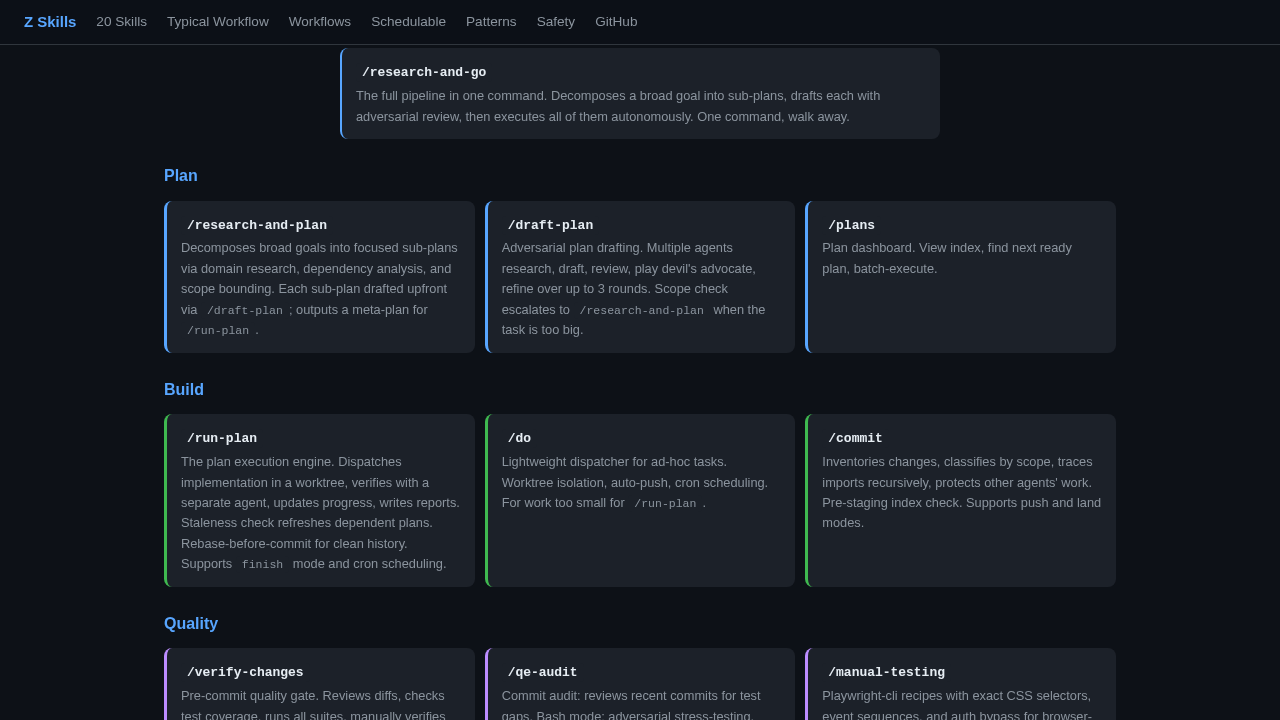
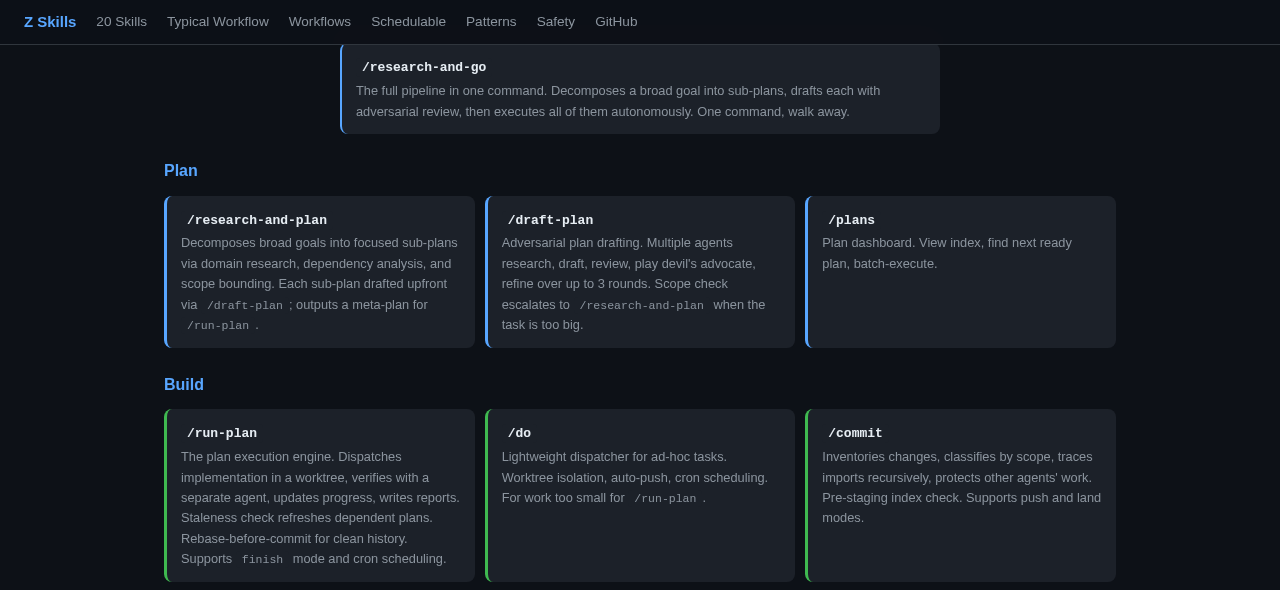
refactor: separate domain extensions from core 15, crop screenshots
- Presentation: 15 core skills (domain extensions removed to one-line note)
- README: 3 clean cropped screenshots (Plan+Build, Quality+Fix, Utility)
- Domain screenshot moved to block-diagram/README.md
- Fixed "out of the box" claim — domain skills need adaptation
- Core Z Skills = 15. Domain extensions = 5 additional, not part of core.

diff --git a/PRESENTATION.html b/PRESENTATION.html
@@ -263,7 +263,7 @@
 
 <nav>
   <span class="logo">Z Skills</span>
-  <a href="#skills">20 Skills</a>
+  <a href="#skills">15 Skills</a>
   <a href="#quickstart">Typical Workflow</a>
   <a href="#workflows">Workflows</a>
   <a href="#schedulable">Schedulable</a>
@@ -277,7 +277,7 @@
 <!-- HERO -->
 <section class="hero" style="margin-bottom: 6px; padding-bottom: 20px;">
   <h1>Z Skills System</h1>
-  <p>Z Skills turns Claude Code into a disciplined engineering team. 20 structured workflows that plan, build, test, fix, and ship &mdash; with verification at every step. Each skill encodes a workflow that used to need hands-on guidance, so it runs with a single command.</p>
+  <p>Z Skills turns Claude Code into a disciplined engineering team. 15 core skills that plan, build, test, fix, and ship &mdash; with verification at every step. Each skill encodes a workflow that used to need hands-on guidance, so it runs with a single command.</p>
   <p>Currently: 15 core skills and 5 domain extensions covering plan drafting, feature implementation, bug fixing, verification, testing, documentation, and safe code landing. Six support cron scheduling for unattended execution.</p>
 </section>
 
@@ -374,29 +374,7 @@
         </div>
       </div>
 
-      <h4 style="color: var(--accent); margin: 24px 0 12px;">Domain Extensions</h4>
-      <div class="skill-mini-grid">
-        <div class="skill-mini" style="border-color: var(--pink);">
-          <h5><code>/add-block</code></h5>
-          <p>Full 13-step lifecycle for new component types: plan, implement, register, UI, docs, tests, example, codegen, deploy, manual testing, verification, landing.</p>
-        </div>
-        <div class="skill-mini" style="border-color: var(--pink);">
-          <h5><code>/add-example</code></h5>
-          <p>Example project creation: research the concept, design layout, build project file, register, test, screenshot, verify end-to-end.</p>
-        </div>
-        <div class="skill-mini" style="border-color: var(--pink);">
-          <h5><code>/model-design</code></h5>
-          <p>Layout guidelines for diagrams and charts, based on industry standards and best practices.</p>
-        </div>
-        <div class="skill-mini" style="border-color: var(--pink);">
-          <h5><code>/manual-testing</code></h5>
-          <p>Playwright-cli recipes with exact selectors and event sequences for UI testing.</p>
-        </div>
-        <div class="skill-mini" style="border-color: var(--pink);">
-          <h5><code>/review-feedback</code></h5>
-          <p>Triage user feedback, deduplicate against existing issues, file via GitHub CLI.</p>
-        </div>
-      </div>
+      <p style="color: var(--text-dim); margin: 24px 0 12px; font-style: italic;">+ 5 domain extension skills for block-diagram editors in <code>block-diagram/</code></p>
 
 </section>
 
@@ -685,7 +663,7 @@
 
 <!-- CLOSING -->
 <section class="fade-in" style="text-align:center; padding: 40px 0; border-top: 2px solid var(--border);">
-  <p style="font-size: 1.05em; color: var(--text); max-width: 800px; margin: 0 auto;"><strong>20 skills that plan, build, test, fix, and ship &mdash; so one developer can run a full engineering team.</strong></p>
+  <p style="font-size: 1.05em; color: var(--text); max-width: 800px; margin: 0 auto;"><strong>15 skills that plan, build, test, fix, and ship &mdash; so one developer can run a full engineering team.</strong></p>
   <p style="margin-top: 16px;"><a href="https://github.com/zeveck/zskills">github.com/zeveck/zskills</a></p>
   <p style="margin-top: 24px; font-size: 0.85em; color: var(--text-dim);">Built with Claude Code (Claude Opus 4.6) &mdash; Z Skills System.</p>
 </section>

diff --git a/README.md b/README.md
@@ -18,7 +18,7 @@ workflow stages, enforcement model, and war stories.
 
 ![Quality and Fix skills](screenshots/skills-quality-fix.png)
 
-![Utility, Reference, and Domain Extension skills](screenshots/skills-utility-domain.png)
+![Utility and Reference skills](screenshots/skills-utility.png)
 
 ## Quick Install
 
@@ -88,19 +88,11 @@ data pipeline.
 | `/doc` | Documentation audit, gap-filling, and changelog/newsletter entries |
 | `/setup-zskills` | Install, audit, or update Z Skills infrastructure in any project |
 
-### 5 Domain Skills (`block-diagram/`)
+### Domain Extensions (`block-diagram/`)
 
-These are for block-diagram editors and visual modeling projects. Use them
-directly or as templates for your own domain-specific skills.
-See [`block-diagram/README.md`](block-diagram/README.md).
-
-| Skill | Purpose |
-|-------|---------|
-| `/add-block` | Full lifecycle for new block types: plan, implement, register, test, example, codegen |
-| `/add-example` | Example model creation: research, design, build, register, test, screenshot |
-| `/manual-testing` | Playwright recipes with exact selectors for block-diagram UI testing |
-| `/model-design` | Layout guidelines for block diagrams and state charts (MAAB/NASA standards) |
-| `/review-feedback` | Triage in-app user feedback, deduplicate, file GitHub issues |
+5 additional skills for block-diagram editors and visual modeling projects.
+These are **not** part of the core 15 — they're domain-specific extensions
+that demonstrate how to build your own. See [`block-diagram/README.md`](block-diagram/README.md).
 
 ## What Gets Installed
 

diff --git a/block-diagram/README.md b/block-diagram/README.md
@@ -4,6 +4,8 @@ These 5 skills are for block-diagram editors and visual modeling
 projects. They demonstrate how to extend Z Skills with domain-specific
 workflows.
 
+![Block diagram domain skills](screenshots/domain-skills.png)
+
 ## Skills
 
 | Skill | Lines | Purpose |
@@ -16,8 +18,9 @@ workflows.
 
 ## Using These Skills
 
-**If your project is a block-diagram editor:** install these alongside the
-core Z Skills. They work out of the box.
+**If your project is a block-diagram editor:** these skills encode proven
+workflows and layout standards. You'll need to adapt file paths and
+selectors to your project's architecture, but the patterns are ready to use.
 
 **If your project is something else:** use these as templates. The patterns
 generalize:
